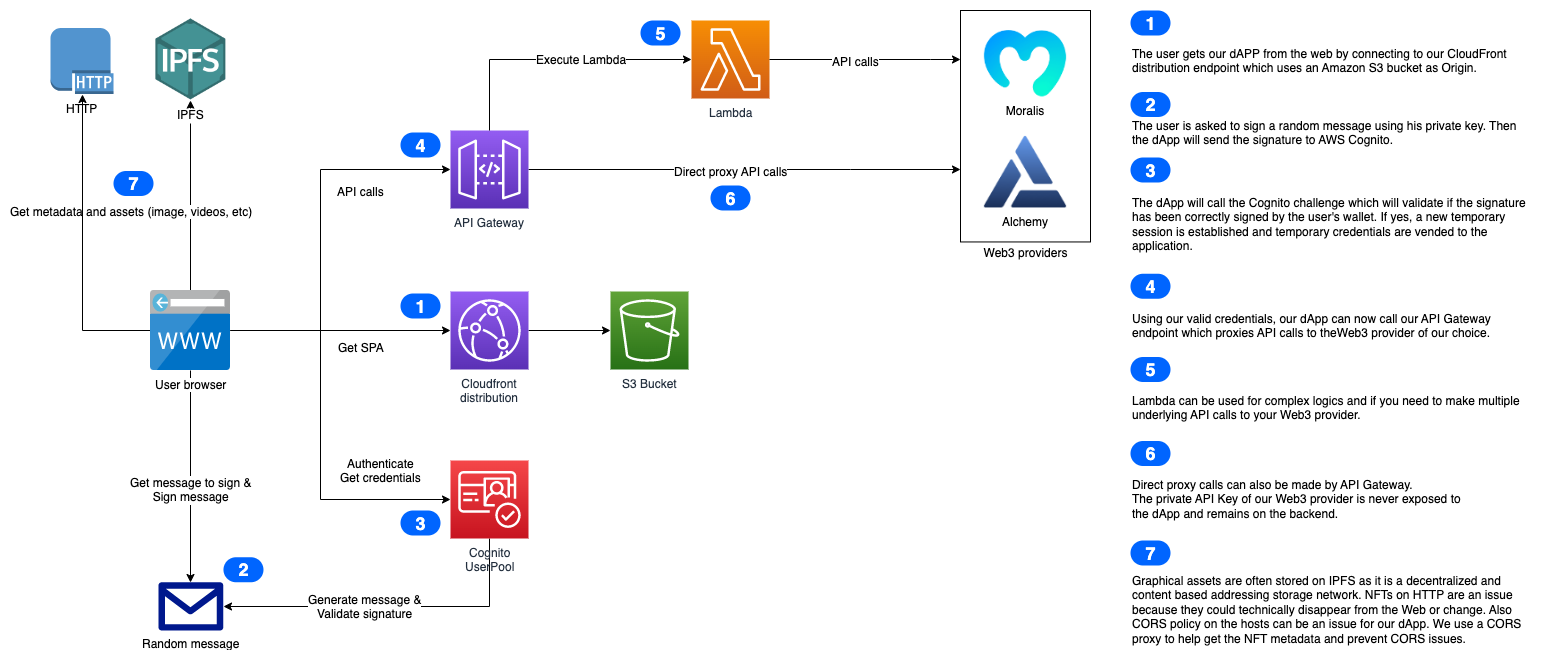
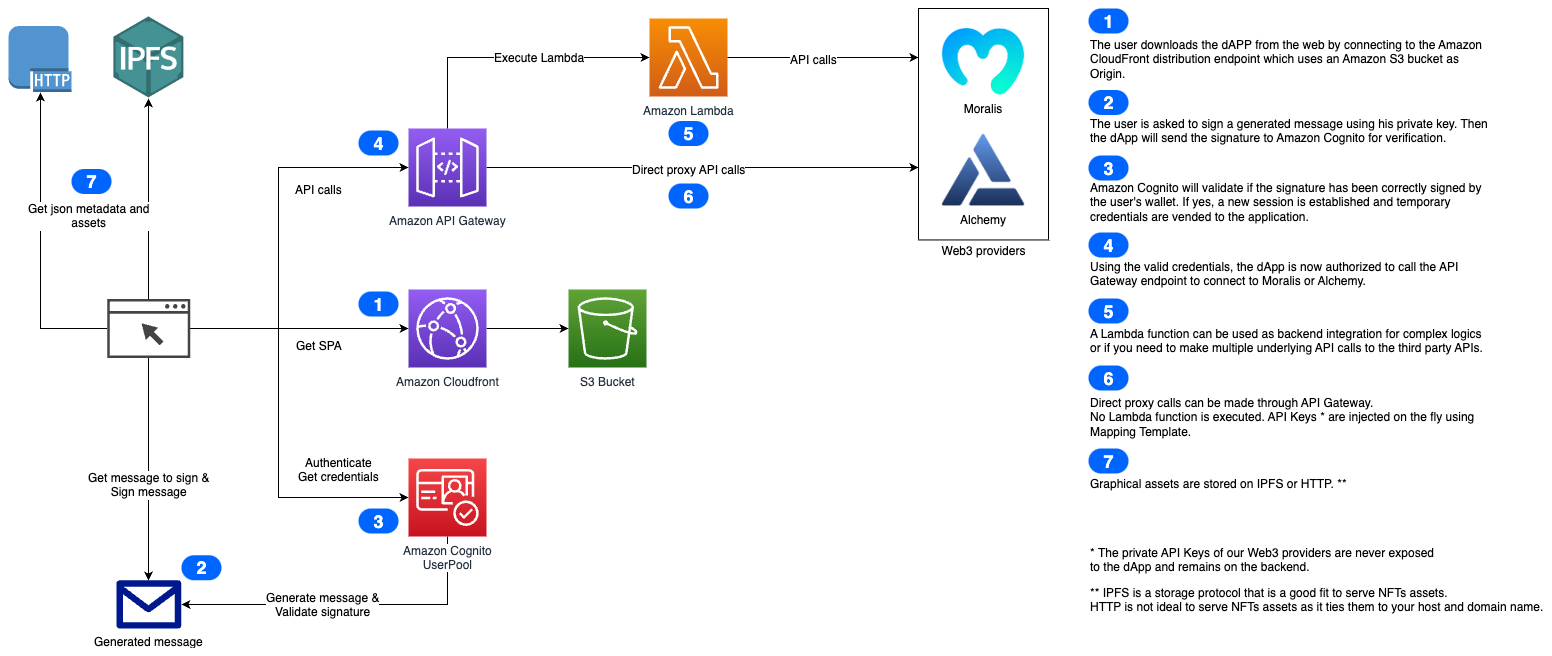
Update README and architecture image

diff --git a/backend/README.md b/backend/README.md
@@ -4,21 +4,22 @@ This folder contains the [AWS Serverless Application Model (SAM)](https://aws.am
 
 # Requirements
 
-1. AWS Serverless Application Model (SAM).
-   - [AWS SAM](https://docs.aws.amazon.com/serverless-application-model/latest/developerguide/what-is-sam.html) is a toolkit for building and running serverless applications on AWS using [AWS CloudFormation](https://aws.amazon.com/cloudformation/).
+1. AWS Account with proper IAM permissions in order to deploy the AWS resources listed in the `template.yaml` file.
+2. AWS Serverless Application Model (SAM).
+   - [AWS SAM](https://docs.aws.amazon.com/serverless-application-model/latest/developerguide/what-is-sam.html) is a toolkit for building, testing, running and deploying serverless applications on AWS. It is compatible with [AWS CloudFormation](https://aws.amazon.com/cloudformation/). SAM generates a CloudFormation template and deploys it.
    - Ensure you have completed the [AWS SAM prerequistes](https://docs.aws.amazon.com/serverless-application-model/latest/developerguide/prerequisites.html).
    - [Install the AWS SAM CLI](https://docs.aws.amazon.com/serverless-application-model/latest/developerguide/install-sam-cli.html).
-2. [Alchemy](https://www.alchemy.com/) and [Moralis](https://moralis.io/) accounts and API keys
+3. [Alchemy](https://www.alchemy.com/) and [Moralis](https://moralis.io/) accounts and API keys
    - This project uses Alchemy and Moralis to fetch data from the blockchain
    - Accounts and API Keys for those accounts are required and used throughout this project
 
 # Deployment
 
-Once you have your AWS account, the AWS SAM CLI, and Alchemy and Moralis API keys we can get started.
+Once you have your AWS account, the AWS SAM CLI setup, and Alchemy and Moralis API keys, we can get started.
 
 ## Environment Setup
 
-Rename the `prod.parameters.example` to `prod.parameters` and add the Alchemy and Moralis keys in order to have access to their API. **Important: Remove the comments (lines starting with `#`) in the new `prod.parameters` file. The AWS SAM CLI `--parameter-overrides` option doesn't support comments.**
+Rename the `prod.parameters.example` to `prod.parameters` and add the Alchemy and Moralis keys (in the place of the `xxXxx`) to give access to their API keys to your SAM template.
 
 In the next step, we'll use AWS SAM to deploy our infrastructure using the values defined in `prod.parameters`.
 
@@ -36,7 +37,7 @@ sam deploy --guided --stack-name NFTGallery --capabilities CAPABILITY_IAM CAPABI
   - Change into the `backend/` directory where the SAM `template.yaml` file is located.
 - `sam build`
   - Prepare your backend for deployment.
-  - **Important:** This command will need to be ran to deploy changes to the SAM template or source code.
+  - **Important:** This command will need to be ran again to deploy any changes to the SAM template or Lambda function source code.
 - `sam deploy`
   - Deploy the SAM template. More details in the [AWS SAM documentation](https://docs.aws.amazon.com/serverless-application-model/latest/developerguide/using-sam-cli-deploy.html).
   - `--guided` guides you through the deployment and generates a `samconfig.toml` file for subsequent deployments.
@@ -46,9 +47,10 @@ sam deploy --guided --stack-name NFTGallery --capabilities CAPABILITY_IAM CAPABI
   - `--parameter-overrides $(cat prod.parameters)` is a way to inject the template parameters from a file. SAM only supports parameter overrides in the command line.
   - `--confirm-changeset` prompts you to confirm deployment.
 
-**Note:** After your first deployment you can run the `sam deploy` command without any of the flags to deploy the same CloudFormation stack. To make changes, run the `sam deploy --guided` command again or update the generated `samconfig.toml` file directly.
-
-**Note:** You may want to save the `Outputs` outputted at the end of the `sam deploy` command. These will be used in the `dapp` setup steps. See `projectRoot/dapp/README.md`.
+**Note:** 
+   
+   * After your first deployment you can run the `sam deploy` command without any of the flags to deploy the same CloudFormation stack. To make changes, run the `sam deploy --guided` command again or update the generated `samconfig.toml` file directly.
+   * You may want to save the `Outputs` values displayed at the end of the `sam deploy` command. These values will be used in the `dapp` setup steps. See `projectRoot/dapp/README.md`.
 
 ## What does it deploy?
 
@@ -76,5 +78,5 @@ See the `template.yaml` file for more details about all the resources that are c
 
 **Notes**:
 
-- **/getNFTsCollectionAlchemy** is accessible to any users, even anonymous users. All other API calls are protected and only available to authenticated users who have received a valid identity and credentials.
-- **/corsProxy** is used to get the NFT metadata `.json` files if they are not on IPFS.
+- **/getNFTsCollectionAlchemy** is accessible to any users, even anonymous users. All other API calls are protected and only available to authenticated users who have an identity and valid credentials.
+- **/corsProxy** is used to get the NFT metadata `.json` files if they are not on IPFS and prevent CORS errors for misconfigured backends.

diff --git a/README.md b/README.md
@@ -8,15 +8,15 @@ This AWS Blog post explain how this project works in depth: [PUBLIC URL TODO]
 
 # Overview
 
-In this project, we demonstrate how to use various AWS services to authenticate users with their crypto wallet and make secure API calls to [Alchemy](https://www.alchemy.com/) and [Moralis](https://moralis.io/) to get NFT metadata without having to interact directly with the Blockchain.
+In this project, we demonstrate how to use various AWS services to authenticate users with their digital wallet and make secure API calls to [Alchemy](https://www.alchemy.com/) and [Moralis](https://moralis.io/) to get NFT metadata without having to interact directly with the Blockchain.
 
-We show how we can use [Amazon Cognito](https://aws.amazon.com/cognito/) to authenticate users using their crypto wallet so they can obtain an identity and temporary credentials to access AWS services.
+We show how you can use [Amazon Cognito](https://aws.amazon.com/cognito/) to authenticate users using their digital wallet to obtain an identity and temporary AWS credentials to access AWS services.
 
-We will use an Amazon Cognito custom authentication challenge to ask users to sign a random message with their crypto wallet. Amazon Cognito, by the way of [Lambda Triggers](https://docs.aws.amazon.com/cognito/latest/developerguide/cognito-user-identity-pools-working-with-aws-lambda-triggers.html), will validate if the signature is valid and will issue an ID token which proves that the user's wallet address has signed the given message. 
+You will use an Amazon Cognito custom authentication challenge to ask users to sign a random message with their digital wallet. Amazon Cognito, by the way of [Lambda Triggers](https://docs.aws.amazon.com/cognito/latest/developerguide/cognito-user-identity-pools-working-with-aws-lambda-triggers.html), will validate if the signature is valid and will issue an ID token which proves that the user's wallet address has signed the given message. 
 
-We also demonstrate multiple ways to authorize access to [API Gateway](https://aws.amazon.com/api-gateway/) routes using this ID Token and [IAM Roles](https://docs.aws.amazon.com/cognito/latest/developerguide/iam-roles.html). API Gateway acts as a proxy to Alchemy and Moralis.
+You will also experiment with multiple ways to authorize access to [API Gateway](https://aws.amazon.com/api-gateway/) routes using Cognito Authorizers and [IAM Roles](https://docs.aws.amazon.com/cognito/latest/developerguide/iam-roles.html). You will also explore how to use Amazon Cognito IdentityPool to support authenticated and unauthenticated users.
 
-We also showcases the use of Amazon Cognito IdentityPool to support unauthenticated users authorization.
+Finally, you will lear how to use Amazon API Gateway as proxy to third party APIs. In this case you will proxy calls to two Web3 providers, [Alchemy](https://www.alchemy.com/) and [Moralis](https://moralis.io/).
 
 # Architecture 
 
